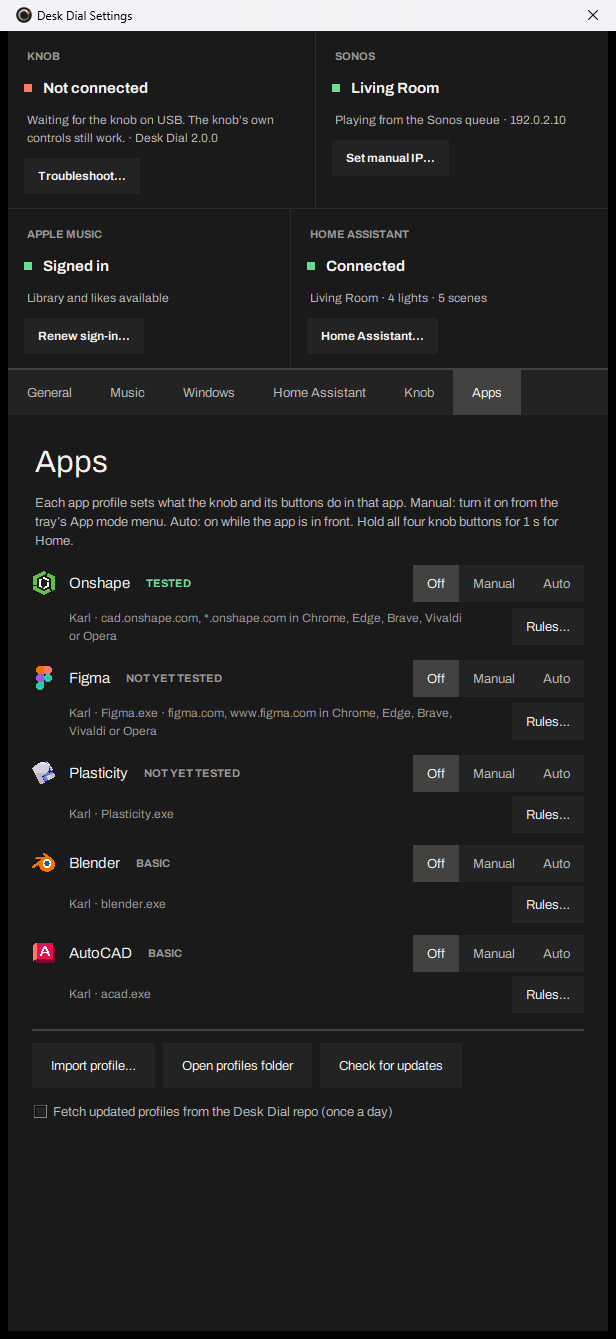
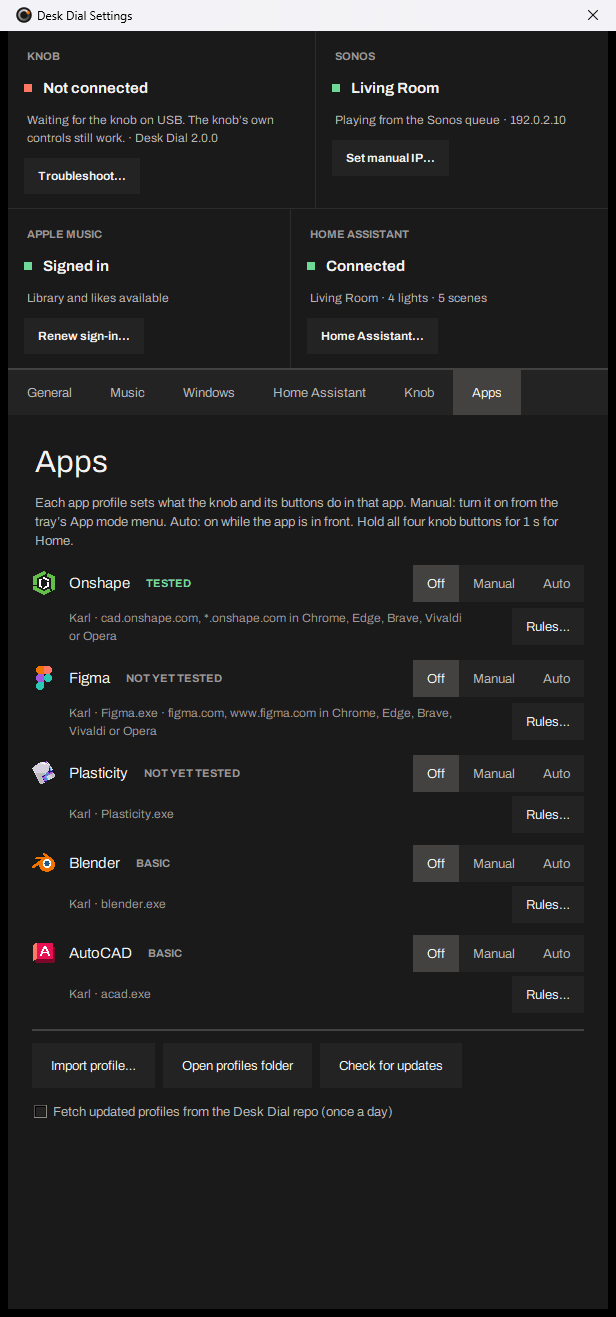
Settings screenshots from the public app/ (7.4.1.0: Recalibrate hidden); Knob alt text

diff --git a/docs/media/README.md b/docs/media/README.md
@@ -83,10 +83,10 @@ Rendered by `tools/readme-media/render_all.py` from fictional data (see `tools/r
 | onshape-knob.webp | 287,628 | 475x550 | 75 | 7.73 |
 | ring-moments.gif | 2,265,085 | 684x544 | 76 | 10 |
 | ring-moments.webp | 1,187,026 | 1036x824 | 167 | 22.2 |
-| settings-apps.png | 29,557 | 616x1339 | 1 |  |
+| settings-apps.png | 29,498 | 616x1317 | 1 |  |
 | settings-general.png | 17,338 | 616x890 | 1 |  |
 | settings-home-assistant.png | 26,173 | 616x1317 | 1 |  |
-| settings-knob.png | 24,661 | 616x1339 | 1 |  |
+| settings-knob.png | 24,164 | 616x1317 | 1 |  |
 | settings-music.png | 19,248 | 616x1093 | 1 |  |
 | settings-windows.png | 15,627 | 616x1093 | 1 |  |
 | social-preview.png | 61,320 | 1280x640 | 1 |  |

diff --git a/docs/features/settings.md b/docs/features/settings.md
@@ -88,7 +88,7 @@ Over plain `http://` the token crosses your network unencrypted, and a line unde
 
 ## Knob
 
-<p><img src="../media/settings-knob.png" alt="Desk Dial Settings, Knob page: the USB port, button order, LEDs Colour, the note "Onshape and other apps: Settings › Apps.", Knob sounds On at 100 percent, Reduced haptics Off, Recalibrate motor" width="420"></p>
+<p><img src="../media/settings-knob.png" alt="Desk Dial Settings, Knob page: the USB port, button order, LEDs Colour, the note "Onshape and other apps: Settings › Apps.", Knob sounds On at 100 percent, Reduced haptics Off" width="420"></p>
 
 **Knob USB port** · a text field
 
